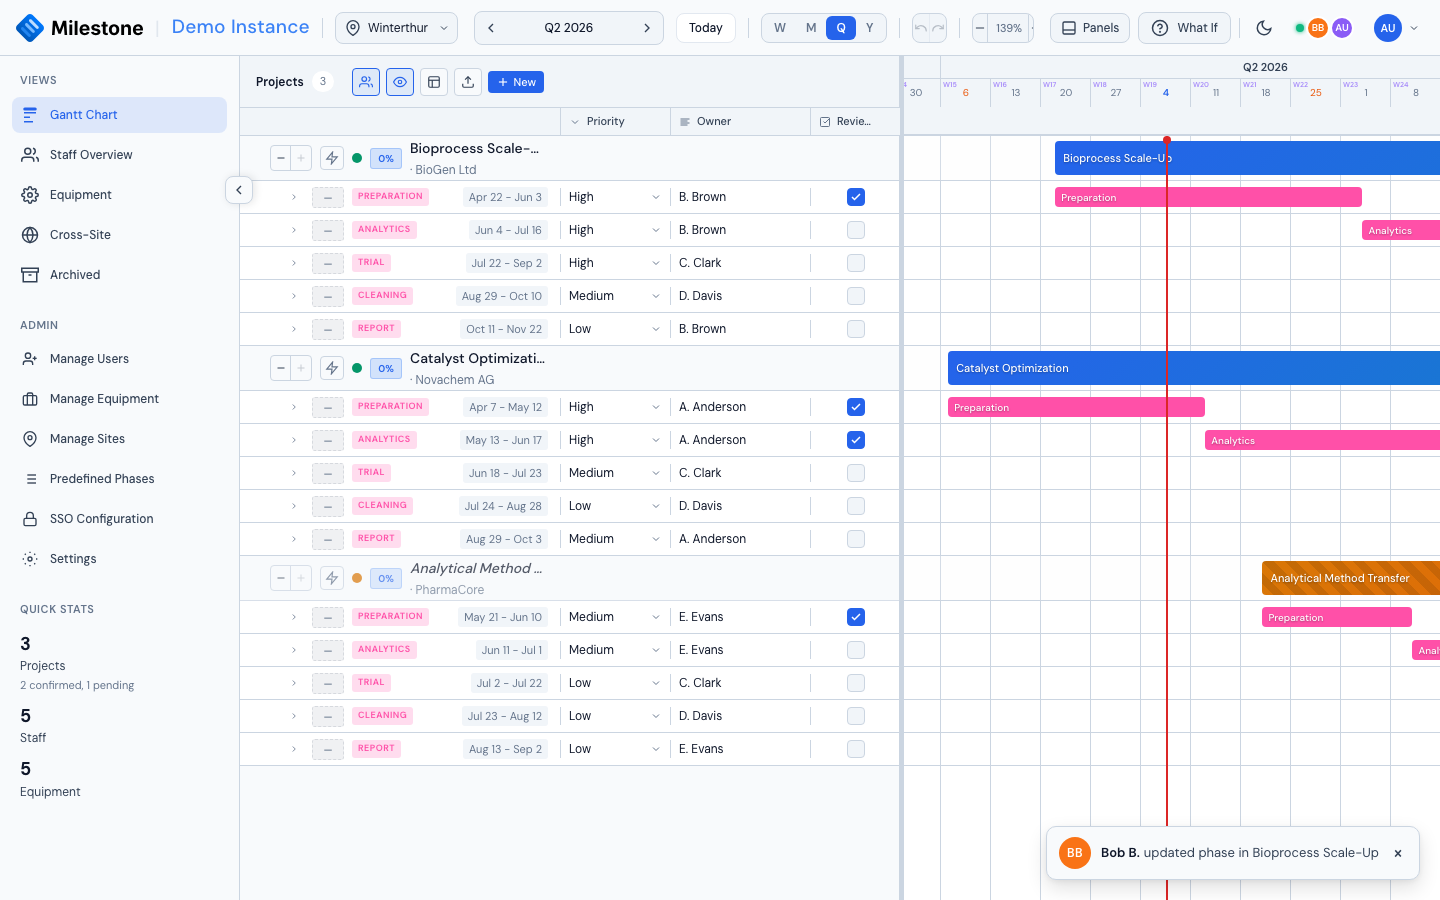
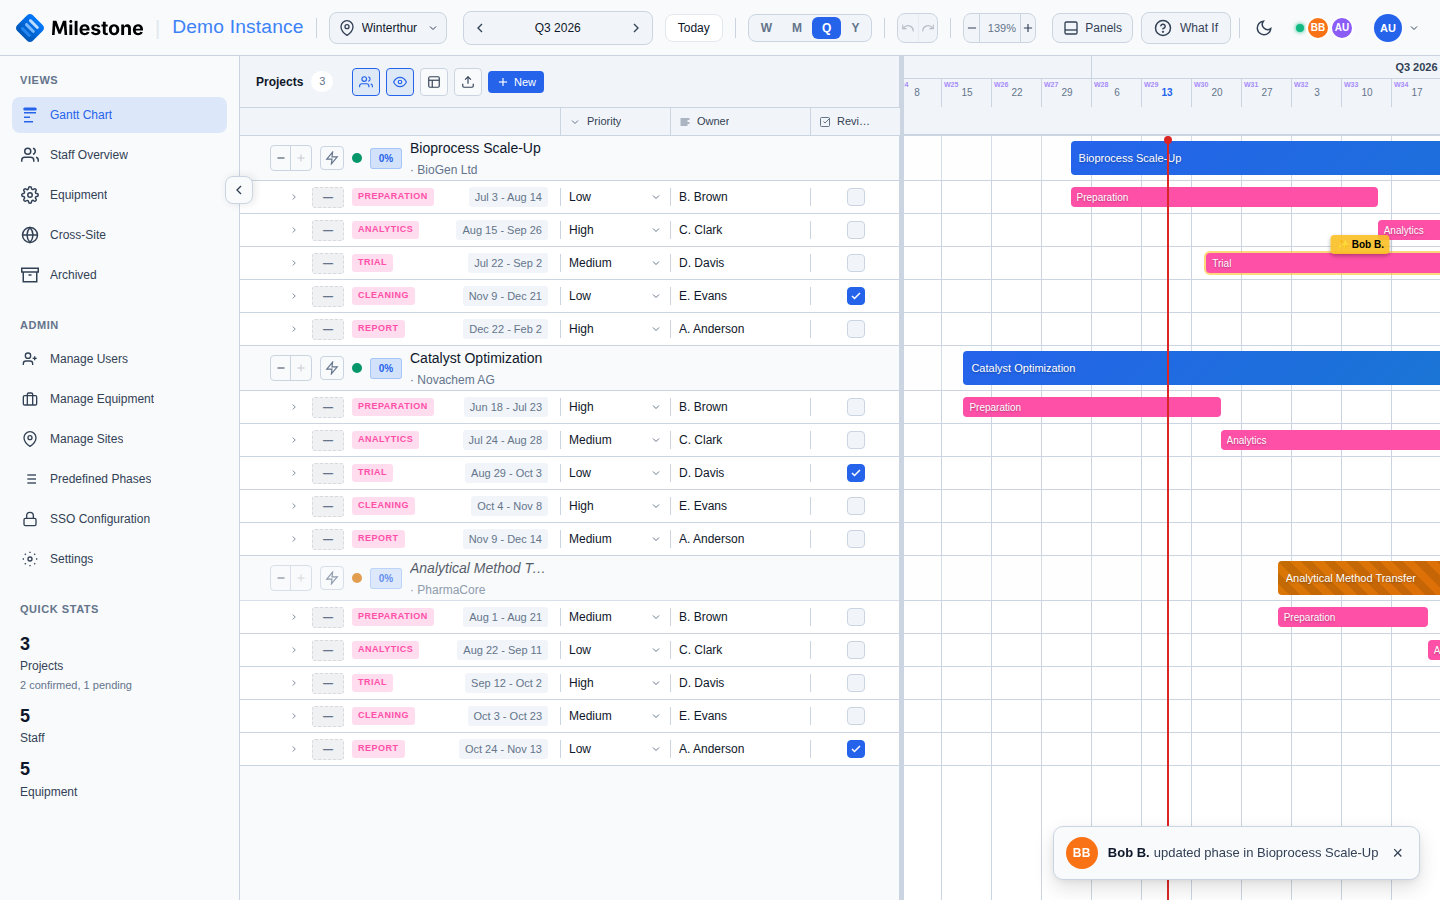
Refresh first batch of regenerated screenshots and harden capture.py
Fixes found while running the extended pipeline end to end: fresh
cookie-less context for the login shot, panel state reset after the
overview-panel shots, scoped staff-dropdown selector, color palette
scrolled into view for the tag shot, Today-scroll on the cross-site view.

diff --git a/scripts/screenshots/capture.py b/scripts/screenshots/capture.py
@@ -150,6 +150,9 @@ def shot_gantt_with_staff(context: BrowserContext) -> None:
     open_panel(page, "Staff")
     page.screenshot(path=str(OUT / "gantt-with-staff-panel.png"))
     log("[done] gantt-with-staff-panel.png")
+    # Panel visibility persists in localStorage — close it again so later
+    # shots (modals, What-If) capture a clean Gantt.
+    open_panel(page, "Staff")
     page.close()
 
 
@@ -163,6 +166,9 @@ def shot_gantt_with_equipment(context: BrowserContext) -> None:
     open_panel(page, "Equipment")
     page.screenshot(path=str(OUT / "gantt-with-equipment-panel.png"))
     log("[done] gantt-with-equipment-panel.png")
+    # Panel visibility persists in localStorage — close it again so later
+    # shots (modals, What-If) capture a clean Gantt.
+    open_panel(page, "Equipment")
     page.close()
 
 
@@ -231,15 +237,22 @@ def shot_custom_columns(context: BrowserContext) -> None:
 
 
 def shot_login(context: BrowserContext) -> None:
-    """Unauthenticated login page (light theme pinned via localStorage)."""
-    page = context.new_page()
+    """Unauthenticated login page (light theme pinned via localStorage).
+
+    Uses a fresh, cookie-less context — the shared context is already logged
+    in by earlier shots and would render the app instead of the login form.
+    """
+    fresh = context.browser.new_context(
+        viewport={"width": 1440, "height": 900}, locale="en-US"
+    )
+    page = fresh.new_page()
     page.add_init_script("localStorage.setItem('milestone_theme', 'light')")
     page.goto(URL)
     page.wait_for_load_state("networkidle")
     page.wait_for_timeout(800)
     page.screenshot(path=str(OUT / "login.png"))
     log("[done] login.png")
-    page.close()
+    fresh.close()
 
 
 def shot_project_modal(context: BrowserContext) -> None:
@@ -260,6 +273,12 @@ def shot_project_tags(context: BrowserContext) -> None:
     page.wait_for_timeout(400)
     page.locator('button[title="Edit tag"]').first.click()
     page.wait_for_timeout(400)
+    # Bring the edit panel's color palette fully into the modal's scroll view.
+    try:
+        page.get_by_role("button", name="Done", exact=True).scroll_into_view_if_needed()
+        page.wait_for_timeout(300)
+    except Exception:
+        pass
     page.screenshot(path=str(OUT / "project-tags.png"))
     log("[done] project-tags.png")
     page.close()
@@ -276,8 +295,10 @@ def shot_assign_staff_modal(context: BrowserContext) -> None:
     right_click_row(page, "Catalyst Optimization")
     page.get_by_text("Assign Staff", exact=True).click()
     page.wait_for_timeout(600)
-    modal_select = page.locator('select').first
-    modal_select.select_option(label=modal_select.locator('option').nth(1).text_content())
+    # The page has other <select>s (custom-column list cells) — target the
+    # modal's staff dropdown via its placeholder option.
+    staff_select = page.locator('select:has(option:text("Select staff member"))')
+    staff_select.select_option(index=1)
     page.wait_for_timeout(400)
     page.screenshot(path=str(OUT / "assign-staff-modal.png"))
     log("[done] assign-staff-modal.png")
@@ -354,6 +375,9 @@ def shot_cross_site(context: BrowserContext) -> None:
     login(page)
     open_sidebar_item(page, "Cross-Site")
     page.wait_for_timeout(1500)
+    use_quarter_view(page)
+    click_today(page)
+    page.wait_for_timeout(500)
     page.screenshot(path=str(OUT / "cross-site.png"))
     log("[done] cross-site.png")
     page.close()
